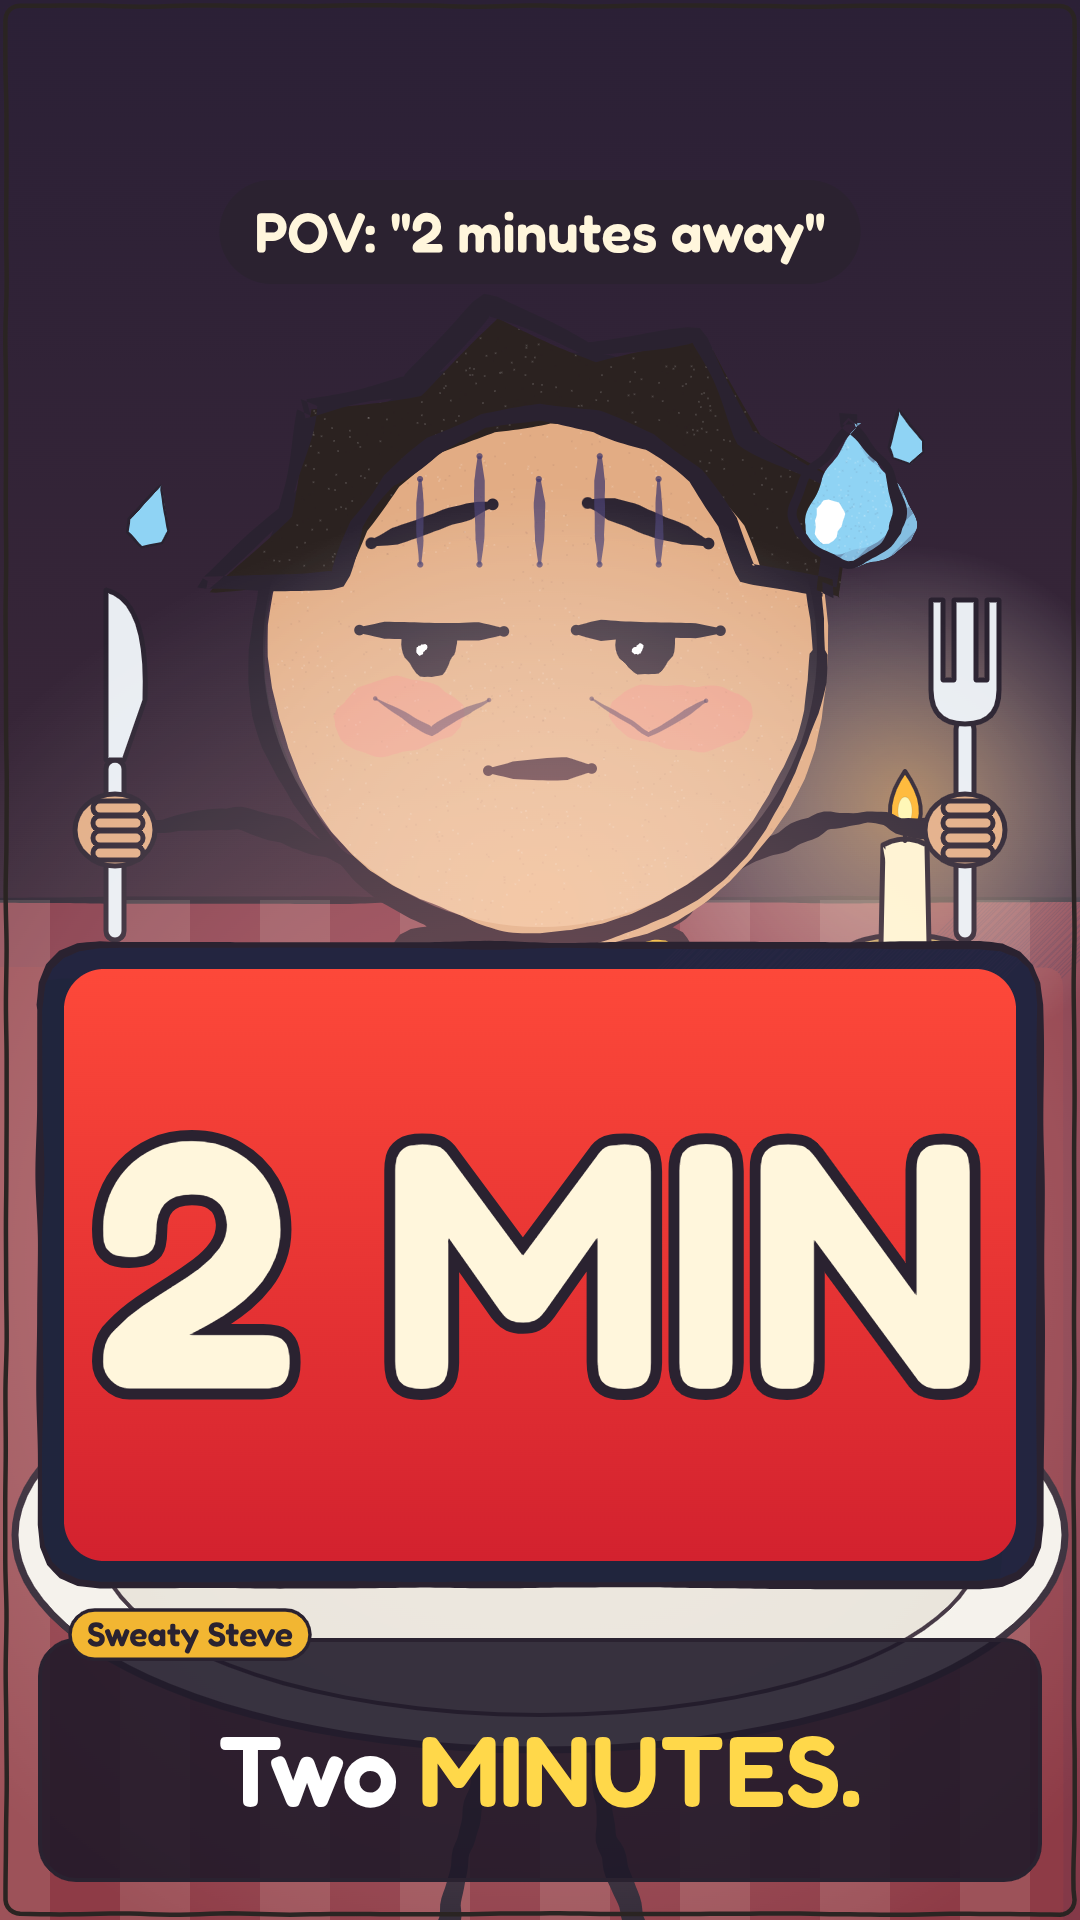
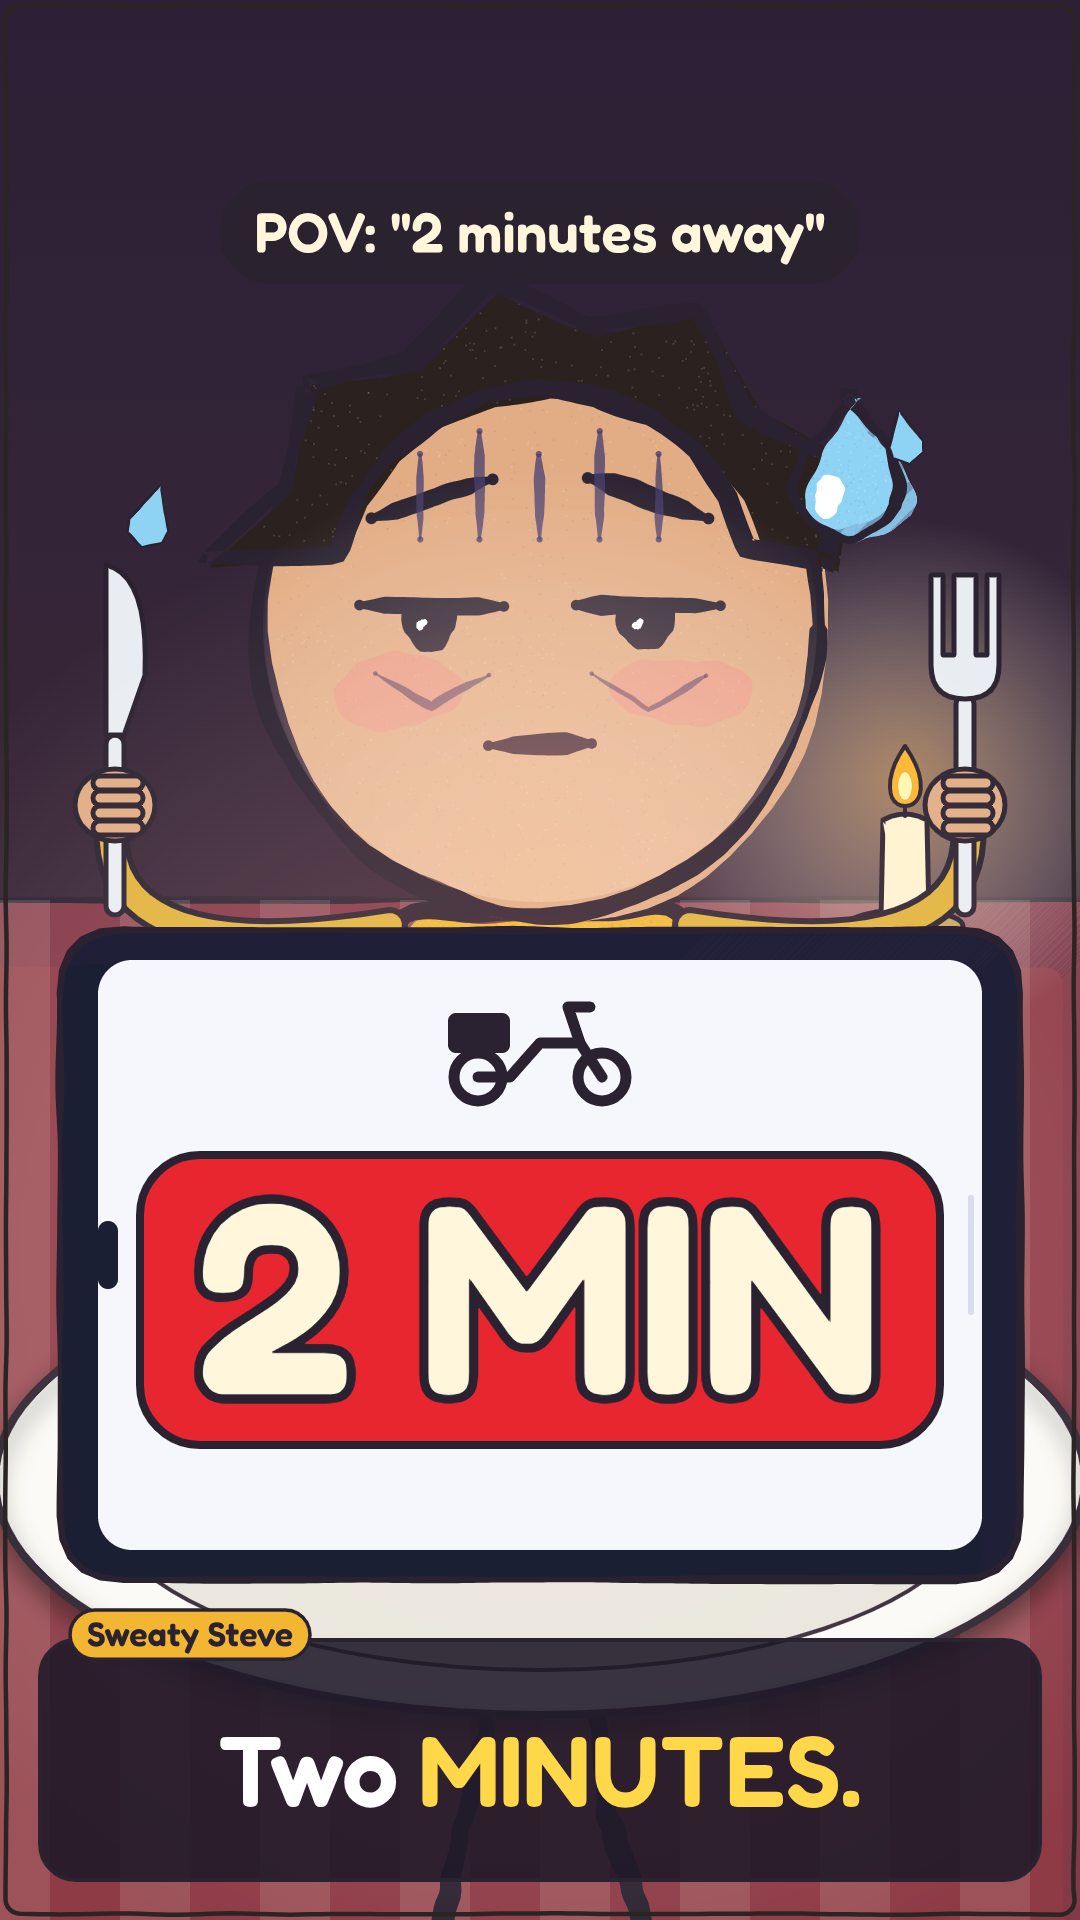
Tập 11 Two Minutes Away: key stills round 2

diff --git a/episodes/20-two-minutes/film/stills.js b/episodes/20-two-minutes/film/stills.js
@@ -97,31 +97,44 @@ function still1(t) {
   // table top
   p.part(roundPoly([[-60, 900], [1140, 900], [1140, 1930], [-60, 1930]], 20), '#8e3b46', { shade: 0.1, lw: 6 });
   ctx.save(); ctx.fillStyle = 'rgba(255,240,220,0.13)'; for (let i = 0; i < 9; i++) ctx.fillRect(i * 140 - 20, 900, 70, 1030); ctx.restore();
-  const s = 19, X = 540, hc0 = 650, Y = hc0 + 80 * s, shY = Y - 60 * s;
-  candle(905, 945, 100, t);
-  drawCharacter(ctx, 'steve', X, Y, s, { eyes: 'dot', lid: 0.55, brow: 'worried', mouth: 'line', fx: ['gloom', 'sweat'], look: 0, hair: 0, bags: 1,
-    armL: armTo(X, shY, s, 115, 830, [0, 4]), armR: armTo(X, shY, s, 965, 830, [0, 4]) }, { frame: boilFrame(t) });
+  const s = 19, X = 540, hc0 = 625, Y = hc0 + 80 * s;
+  candle(905, 920, 100, t);
+  drawCharacter(ctx, 'steve', X, Y, s, { eyes: 'dot', lid: 0.55, brow: 'worried', mouth: 'line', fx: ['gloom', 'sweat'], look: 0, hair: 0, bags: 1, arm: 'down' }, { frame: boilFrame(t) });
   const hc = headOf(X, Y, s); faceGlow(hc, 'rgba(255,120,90,0.45)', 0, 260);
-  // fork (his right = screen right) and knife held up, handles in fists
-  knife(115, 880, 160); fist(115, 830); fork(965, 880, 160); fist(965, 830);
-  // empty plate under the phone
-  outline(() => { ctx.ellipse(540, 1535, 525, 215, 0, 0, 7); }, '#f4f1ea', 7);
-  outline(() => { ctx.ellipse(540, 1545, 440, 170, 0, 0, 7); }, '#e6e2d8', 4);
-  // phone propped on the plate, GIANT 2 MIN badge as the screen
-  const px = 540, py = 1265, pw = 1000, ph = 640; glowBlob(px, py, 760, 'rgba(255,90,70,0.45)');
+  // empty plate under the phone: clear white rim + well
+  ctx.save(); ctx.shadowColor = 'rgba(0,0,0,0.45)'; ctx.shadowBlur = 24; ctx.shadowOffsetY = 12;
+  outline(() => { ctx.ellipse(540, 1480, 545, 235, 0, 0, 7); }, '#fbfaf5', 8); ctx.restore();
+  outline(() => { ctx.ellipse(540, 1495, 440, 175, 0, 0, 7); }, '#e8e5db', 4);
+  // arms: sleeves from the shoulders (behind the phone) up to fists holding the knife and fork
+  for (const [hx, sx] of [[115, 1], [965, -1]]) {
+    const pts = [[540 - sx * 150 * -1 * -1, 0]];
+    ctx.save(); ctx.lineCap = 'round'; ctx.lineJoin = 'round';
+    const path = () => { ctx.beginPath(); ctx.moveTo(540 + (hx < 540 ? -150 : 150), 925); ctx.quadraticCurveTo(hx < 540 ? 80 : 1000, 975, hx, 800); };
+    ctx.strokeStyle = INK; ctx.lineWidth = 36; path(); ctx.stroke(); ctx.strokeStyle = '#e2b23c'; ctx.lineWidth = 24; path(); ctx.stroke(); ctx.restore();
+  }
+  knife(115, 855, 160); fist(115, 805); fork(965, 855, 160); fist(965, 805);
+  // phone (dark bezel, notch, light screen) propped on the plate; red badge only behind the text
+  const px = 540, py = 1255, pw = 960, ph = 650; glowBlob(px, py, 760, 'rgba(255,90,70,0.3)');
   ctx.save(); ctx.translate(px, py); const q = spen(0.1, 9);
-  q.part(roundPoly([[-pw / 2, -ph / 2], [pw / 2, -ph / 2], [pw / 2, ph / 2], [-pw / 2, ph / 2]], 60), '#20253d', { shade: 0.08, lw: 7 });
-  const sg = ctx.createLinearGradient(0, -ph / 2, 0, ph / 2); sg.addColorStop(0, '#ff4a3a'); sg.addColorStop(1, '#d1202e');
-  ctx.fillStyle = sg; ctx.beginPath(); ctx.roundRect(-pw / 2 + 24, -ph / 2 + 24, pw - 48, ph - 48, 40); ctx.fill();
-  ctx.lineJoin = 'round'; ctx.lineWidth = 22; ctx.strokeStyle = INK; ctx.font = '600 350px Fredoka'; ctx.textAlign = 'center'; ctx.textBaseline = 'middle';
-  ctx.strokeText('2 MIN', 0, 14); ctx.fillStyle = '#fff6dc'; ctx.fillText('2 MIN', 0, 14);
+  q.part(roundPoly([[-pw / 2, -ph / 2], [pw / 2, -ph / 2], [pw / 2, ph / 2], [-pw / 2, ph / 2]], 64), '#1b1f33', { shade: 0.08, lw: 7 });
+  ctx.fillStyle = '#f6f7fc'; ctx.beginPath(); ctx.roundRect(-pw / 2 + 38, -ph / 2 + 30, pw - 76, ph - 60, 34); ctx.fill();
+  ctx.fillStyle = '#1b1f33'; ctx.beginPath(); ctx.roundRect(-pw / 2 + 38, -34, 20, 68, 10); ctx.fill();   // notch / camera pill on the left edge
+  ctx.fillStyle = '#d9dcec'; ctx.beginPath(); ctx.roundRect(pw / 2 - 38 - 14, -60, 6, 120, 3); ctx.fill();
+  // scooter icon (no logo)
+  ctx.save(); ctx.translate(0, -208); ctx.strokeStyle = INK; ctx.fillStyle = INK; ctx.lineWidth = 11; ctx.lineCap = 'round'; ctx.lineJoin = 'round';
+  for (const wx of [-62, 62]) { ctx.beginPath(); ctx.arc(wx, 30, 24, 0, 7); ctx.stroke(); }
+  ctx.beginPath(); ctx.moveTo(-62, 30); ctx.lineTo(-30, 30); ctx.lineTo(0, -4); ctx.lineTo(40, -4); ctx.lineTo(62, 30); ctx.stroke();
+  ctx.beginPath(); ctx.moveTo(40, -4); ctx.lineTo(28, -40); ctx.lineTo(50, -40); ctx.stroke(); ctx.beginPath(); ctx.roundRect(-92, -34, 62, 40, 8); ctx.fill(); ctx.restore();
+  ctx.fillStyle = '#e8262f'; ctx.beginPath(); ctx.roundRect(-400, -100, 800, 290, 60); ctx.fill(); ctx.lineWidth = 8; ctx.strokeStyle = INK; ctx.stroke();
+  ctx.lineJoin = 'round'; ctx.lineWidth = 18; ctx.font = '600 270px Fredoka'; ctx.textAlign = 'center'; ctx.textBaseline = 'middle';
+  ctx.strokeText('2 MIN', 0, 55); ctx.fillStyle = '#fff6dc'; ctx.fillText('2 MIN', 0, 55);
   ctx.restore();
   { const dp = spen(t, 31); drop(dp, 150, 520, 26, 0.3); drop(dp, 905, 440, 22, -0.2); }
   title(); plate('steve', ['Two MINUTES.'], ['MINUTES']);
 }
 
 // ---------- hallway (stills 2 + 3) ----------
-function hall(t, doorX, doorW, doorTop, floorY) {
+function hall(t, doorX, doorW, doorTop, floorY, lx = doorX - doorW / 2 - 10, ly = doorTop - 94) {
   const g = ctx.createLinearGradient(0, 0, 0, H); g.addColorStop(0, '#d9b98f'); g.addColorStop(1, '#c79c70'); ctx.fillStyle = g; ctx.fillRect(0, 0, W, H);
   ctx.save(); ctx.fillStyle = 'rgba(150,60,70,0.12)'; for (let x = 20; x < W; x += 120) ctx.fillRect(x, 0, 52, floorY); ctx.restore();   // wallpaper stripes
   const p = spen(t, 3);
@@ -133,15 +146,22 @@ function hall(t, doorX, doorW, doorTop, floorY) {
   ctx.fillStyle = ig; ctx.fillRect(doorX - doorW / 2, doorTop, doorW, floorY - doorTop);
   p.part(roundPoly([[doorX + doorW / 2, doorTop], [doorX + doorW / 2 + 150, doorTop + 40], [doorX + doorW / 2 + 150, floorY - 30], [doorX + doorW / 2, floorY]], 4), '#8a5a44', { shade: 0.1, lw: 6 });
   ctx.fillStyle = '#e8c84a'; ctx.beginPath(); ctx.arc(doorX + doorW / 2 + 28, floorY * 0.62 + doorTop * 0.38, 12, 0, 7); ctx.fill();
-  outline(() => { ctx.roundRect(doorX - doorW / 2 - 70, doorTop - 130, 120, 70, 14); }, '#f4efe4', 5); text('4A', doorX - doorW / 2 - 10, doorTop - 94, 46, INK);
-  // warm welcome mat
-  p.part(roundPoly([[doorX - doorW / 2, floorY + 20], [doorX + doorW / 2, floorY + 20], [doorX + doorW / 2 - 20, floorY + 120], [doorX - doorW / 2 + 20, floorY + 120]], 8), '#b84a4a', { shade: false, lw: 5 });
+  outline(() => { ctx.roundRect(lx - 60, ly - 36, 120, 72, 14); }, '#f4efe4', 5); text('4A', lx, ly + 2, 46, INK);
+  // flat welcome mat in perspective (wider at the front edge), thin stripes
+  p.part(roundPoly([[doorX - doorW / 2 + 20, floorY + 8], [doorX + doorW / 2 - 20, floorY + 8], [doorX + doorW / 2 + 50, floorY + 66], [doorX - doorW / 2 - 50, floorY + 66]], 4), '#b84a4a', { shade: false, lw: 5 });
+  ctx.save(); ctx.strokeStyle = 'rgba(255,230,200,0.6)'; ctx.lineWidth = 4; ctx.beginPath(); ctx.moveTo(doorX - doorW / 2 + 4, floorY + 26); ctx.lineTo(doorX + doorW / 2 - 4, floorY + 26); ctx.moveTo(doorX - doorW / 2 - 14, floorY + 46); ctx.lineTo(doorX + doorW / 2 + 14, floorY + 46); ctx.stroke(); ctx.restore();
 }
-function bag(x, y, k = 1) {   // anonymous paper delivery bag hanging from (x,y) handle top
-  ctx.save(); ctx.translate(x, y); ctx.scale(k, k); ctx.strokeStyle = INK; ctx.lineWidth = 6; ctx.beginPath(); ctx.arc(0, 0, 36, Math.PI, 0); ctx.stroke();
-  outline(() => { ctx.moveTo(-70, 0); ctx.lineTo(70, 0); ctx.lineTo(80, 190); ctx.lineTo(-80, 190); ctx.closePath(); }, '#c99a62', 6);
-  ctx.fillStyle = 'rgba(42,34,48,0.2)'; ctx.fillRect(-70, 0, 140, 22);
-  outline(() => { ctx.moveTo(-70, 0); ctx.lineTo(-90, -4); ctx.lineTo(-80, 190); ctx.lineTo(-70, 190); ctx.closePath(); }, '#b0834d', 5);
+function bag(x, y, k = 1) {   // takeaway bag hanging from (x,y): cup lid + straw peeking out, receipt sticker, twisted handles
+  ctx.save(); ctx.translate(x, y); ctx.scale(k, k); ctx.strokeStyle = INK; ctx.lineWidth = 6; ctx.lineJoin = 'round'; ctx.lineCap = 'round';
+  outline(() => { ctx.roundRect(-34, 8, 68, 44, 10); }, '#f4f4f4', 5);                                 // cup behind the bag mouth
+  outline(() => { ctx.ellipse(0, 8, 40, 12, 0, 0, 7); }, '#d9423e', 5);                               // cup lid
+  ctx.beginPath(); ctx.moveTo(10, 4); ctx.lineTo(26, -44); ctx.stroke();                              // straw
+  outline(() => { ctx.moveTo(-84, 30); ctx.lineTo(84, 30); ctx.lineTo(96, 250); ctx.lineTo(-96, 250); ctx.closePath(); }, '#c99a62', 6);
+  ctx.fillStyle = 'rgba(42,34,48,0.18)'; ctx.fillRect(-84, 30, 168, 24);
+  outline(() => { ctx.moveTo(-84, 30); ctx.lineTo(-108, 24); ctx.lineTo(-96, 250); ctx.lineTo(-96, 250); ctx.closePath(); }, '#b0834d', 5);
+  outline(() => { ctx.roundRect(-58, 100, 104, 112, 6); }, '#ffffff', 4);                              // white receipt sticker
+  ctx.strokeStyle = 'rgba(42,34,48,0.7)'; ctx.lineWidth = 5; for (let i = 0; i < 5; i++) { ctx.beginPath(); ctx.moveTo(-42, 122 + i * 19); ctx.lineTo(i % 2 ? 14 : 30, 122 + i * 19); ctx.stroke(); }
+  ctx.strokeStyle = INK; ctx.lineWidth = 7; ctx.beginPath(); ctx.moveTo(-46, 30); ctx.bezierCurveTo(-46, -34, 0, -40, 0, 0); ctx.bezierCurveTo(0, -40, 46, -34, 46, 30); ctx.stroke();   // handles
   ctx.restore();
 }
 function nanaDraw(t, X, Y, s, hands) {
@@ -161,7 +181,7 @@ function still2(t) {
   // Nana: left arm (screen left) holds the bag, right arm lifts the drumstick to her smile
   glowBlob(NX, 1000, 420, 'rgba(255,220,150,0.5)');
   nanaDraw(t, NX, NY, ns, { armL: armTo(NX, nshY, ns * 0.9, NX - 150, nshY + 150, [0, -2]), armR: armTo(NX, nshY, ns * 0.9, NX + 105, nshY - 20, [3, -3]) });
-  bag(NX - 150, nshY + 150, 0.62); fist(NX - 150, nshY + 154, 0.42);
+  bag(NX - 150, nshY + 150, 0.95); fist(NX - 150, nshY + 154, 0.42);
   drumstick(NX + 105, nshY + 40, 0.28, 0.82); fist(NX + 105, nshY - 18, 0.4);
   // steam from the food
   ctx.save(); ctx.strokeStyle = 'rgba(255,255,255,0.8)'; ctx.lineWidth = 6; ctx.lineCap = 'round'; for (const dx of [-14, 8, 30]) { ctx.beginPath(); ctx.moveTo(NX + 130 + dx, nshY - 160); ctx.bezierCurveTo(NX + 150 + dx, nshY - 190, NX + 112 + dx, nshY - 215, NX + 134 + dx, nshY - 250); ctx.stroke(); } ctx.restore();
@@ -175,11 +195,11 @@ function still2(t) {
 
 // ---------- STILL 3 · beat 9 punch ----------
 function still3(t) {
-  SEED = 12; hall(t, 840, 300, 610, 1450);
+  SEED = 12; hall(t, 840, 300, 610, 1450, 985, 440);
   const ns = 8.2, NX = 850, NY = 1450, nshY = NY - 52 * 0.9 * ns;
   glowBlob(NX, 1000, 400, 'rgba(255,220,150,0.5)');
   nanaDraw(t, NX, NY, ns, { armL: armTo(NX, nshY, ns * 0.9, NX - 120, nshY + 140, [0, -2]), armR: armTo(NX, nshY, ns * 0.9, NX + 105, nshY - 150, [5, -3]) });
-  bag(NX - 120, nshY + 140, 0.55); fist(NX - 120, nshY + 144, 0.38);
+  bag(NX - 120, nshY + 140, 0.9); fist(NX - 120, nshY + 144, 0.38);
   drumstick(NX + 105, nshY - 130, 0.3, 0.8); fist(NX + 105, nshY - 150, 0.38);
   const s = 21, X = 360, hc0 = 790, Y = hc0 + 80 * s, shY = Y - 60 * s;
   drawCharacter(ctx, 'steve', X, Y, s, { eyes: 'dot', lid: 0.6, brow: undefined, mouth: 'line', fx: ['gloom', 'sweat'], look: 0.3, hair: 0, bags: 1 }, { frame: boilFrame(t) });

diff --git a/episodes/20-two-minutes/STILLS-REVIEW.md b/episodes/20-two-minutes/STILLS-REVIEW.md
@@ -21,3 +21,9 @@ Checked against script.md, QA.md (Glance test, faces, text), CAST.md, Tập 10 r
 - S1 face is ~ 27 % only if hair is counted; the face circle alone is ~ 22 %.
 - Nana is small (~ 9 % of frame height-wise) in S3; her wave reads but is secondary. Nana's bag arm is a plain stick (no grip detail).
 - Phone has no screen glare / pulse (motion comes later).
+
+---
+# Round 2 (Opus review, small fixes only)
+- S1: phone now reads as a phone (dark bezel, side camera pill, light screen, scooter icon, red badge only behind "2 MIN"); white plate rim visible around and below it; sleeves in mustard run from behind the phone up to the fists on knife and fork. Phone still ~ 30 % of frame.
+- S2/S3: bigger takeaway bag (twisted handles, white receipt sticker with lines, cup lid and straw peeking out); doormat flattened to the floor in perspective; S3 "4A" sign moved to the upper right, clear of hair and sweat drop.
+- Remaining: S1 sleeves only show their forearm part (shoulders hidden behind the phone).
